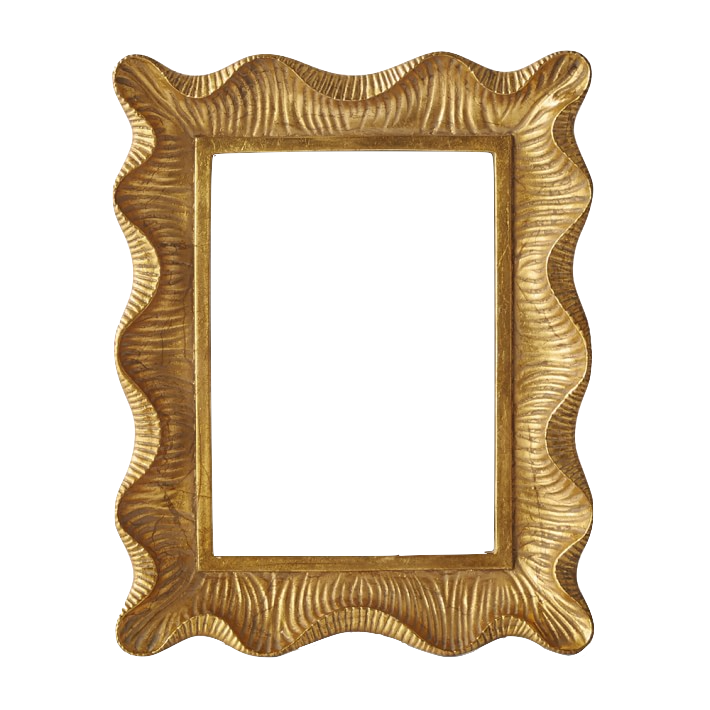
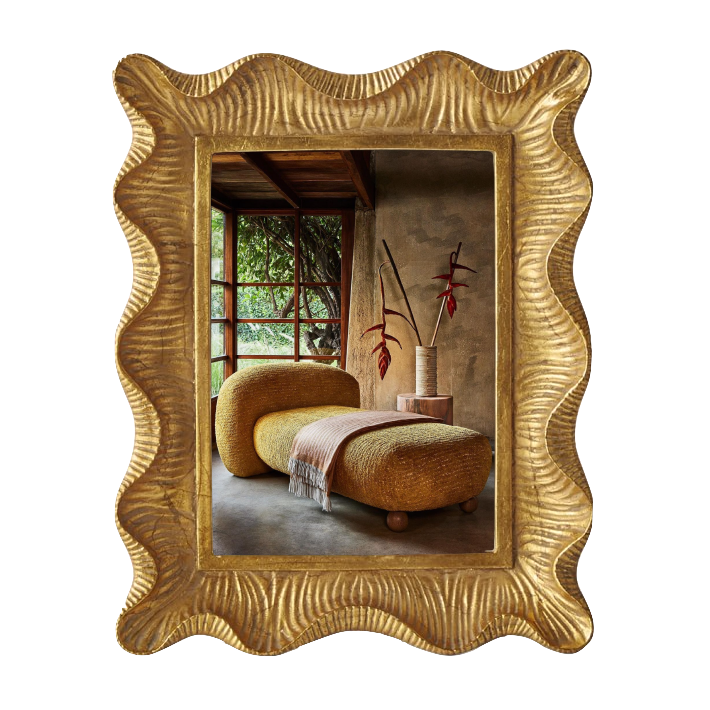
add new images

diff --git a/src/Banner.jsx b/src/Banner.jsx
@@ -10,38 +10,32 @@ export function Banner() {
   <div className="row">
     <div className="col-xl-2 col-l-2 col-md-3 col-sm-4 col-6 item">
       <div className="frame-container">
-        <img src="assets/frame1.png" alt="Frame 1" className="frame" />
-        <img src="assets/chair.png" alt="Image 1" className="inner-image" />
+        <img src="assets/frame1.png" alt="Image 1" className="frame" />
       </div>
     </div>
     <div className="col-xl-2 col-l-2 col-md-3 col-sm-4 col-6 item">
       <div className="frame-container">
-        <img src="assets/frame1.png" alt="Frame 2" className="frame" />
-        <img src="assets/chair.png" alt="Image 2" className="inner-image" />
+        <img src="assets/frame2.png" alt="Image 2" className="frame" />
       </div>
     </div>
     <div className="col-xl-2 col-l-2 col-md-3 col-sm-4 col-6 item">
       <div className="frame-container">
-        <img src="assets/frame1.png" alt="Frame 2" className="frame" />
-        <img src="assets/chair.png" alt="Image 2" className="inner-image" />
+        <img src="assets/frame3.png" alt="Image 2" className="frame" />
       </div>
     </div>
     <div className="col-xl-2 col-l-2 col-md-3 col-sm-4 col-6 item">
       <div className="frame-container">
-        <img src="assets/frame5.png" alt="Frame 2" className="frame" />
-        <img src="assets/chair.png" alt="Image 2" className="inner-image" />
+        <img src="assets/frame4.png" alt="Image 2" className="frame" />
       </div>
     </div>
     <div className="col-xl-2 col-l-2 col-md-3 col-sm-4 col-6 item">
       <div className="frame-container">
-        <img src="assets/frame1.png" alt="Frame 2" className="frame" />
-        <img src="assets/chair.png" alt="Image 2" className="inner-image" />
+        <img src="assets/frame5.png" alt="Image 2" className="frame" />
       </div>
     </div>
     <div className="col-xl-2 col-l-2 col-md-3 col-sm-4 col-6 item">
       <div className="frame-container">
-        <img src="assets/frame1.png" alt="Frame 2" className="frame" />
-        <img src="assets/chair.png" alt="Image 2" className="inner-image" />
+        <img src="assets/frame6.png" alt="Image 2" className="frame" />
       </div>
     </div>
   </div>
@@ -49,38 +43,32 @@ export function Banner() {
   <div className="row">
     <div className="col-xl-2 col-l-2 col-md-3 col-sm-4 col-6 item">
       <div className="frame-container">
-        <img src="assets/frame1.png" alt="Frame 1" className="frame" />
-        <img src="assets/chair.png" alt="Image 1" className="inner-image" />
+        <img src="assets/frame7.png" alt="Image 1" className="frame" />
       </div>
     </div>
     <div className="col-xl-2 col-l-2 col-md-3 col-sm-4 col-6 item">
       <div className="frame-container">
-        <img src="assets/frame5.png" alt="Frame 2" className="frame" />
-        <img src="assets/chair.png" alt="Image 2" className="inner-image" />
+        <img src="assets/frame8.png" alt="Image 2" className="frame" />
       </div>
     </div>
     <div className="col-xl-2 col-l-2 col-md-3 col-sm-4 col-6 item">
       <div className="frame-container">
-        <img src="assets/frame1.png" alt="Frame 2" className="frame" />
-        <img src="assets/chair.png" alt="Image 2" className="inner-image" />
+        <img src="assets/frame9.png" alt="Image 2" className="frame" />
       </div>
     </div>
     <div className="col-xl-2 col-l-2 col-md-3 col-sm-4 col-6 item">
       <div className="frame-container">
-        <img src="assets/frame1.png" alt="Frame 2" className="frame" />
-        <img src="assets/chair.png" alt="Image 2" className="inner-image" />
+        <img src="assets/frame10.png" alt="Image 2" className="frame" />
       </div>
     </div>
     <div className="col-xl-2 col-l-2 col-md-3 col-sm-4 col-6 item">
       <div className="frame-container">
-        <img src="assets/frame5.png" alt="Frame 2" className="frame" />
-        <img src="assets/chair.png" alt="Image 2" className="inner-image" />
+        <img src="assets/frame11.png" alt="Image 2" className="frame" />
       </div>
     </div>
     <div className="col-xl-2 col-l-2 col-md-3 col-sm-4 col-6 item">
       <div className="frame-container">
-        <img src="assets/frame1.png" alt="Frame 2" className="frame" />
-        <img src="assets/chair.png" alt="Image 2" className="inner-image" />
+        <img src="assets/frame12.png" alt="Image 2" className="frame" />
       </div>
     </div>
   </div>
@@ -89,82 +77,70 @@ export function Banner() {
   <div className="row">
     <div className="col-xl-2 col-l-2 col-md-3 col-sm-4 col-6 item">
       <div className="frame-container">
-        <img src="assets/frame5.png" alt="Frame 1" className="frame" />
-        <img src="assets/chair.png" alt="Image 1" className="inner-image" />
+        <img src="assets/frame13.png" alt="Image 1" className="frame" />
       </div>
     </div>
     <div className="col-xl-2 col-l-2 col-md-3 col-sm-4 col-6 item">
       <div className="frame-container">
-        <img src="assets/frame1.png" alt="Frame 2" className="frame" />
-        <img src="assets/chair.png" alt="Image 2" className="inner-image" />
+        <img src="assets/frame14.png" alt="Image 2" className="frame" />
       </div>
     </div>
     <div className="col-xl-2 col-l-2 col-md-3 col-sm-4 col-6 item">
       <div className="frame-container">
-        <img src="assets/frame1.png" alt="Frame 2" className="frame" />
-        <img src="assets/chair.png" alt="Image 2" className="inner-image" />
+        <img src="assets/frame15.png" alt="Image 2" className="frame" />
       </div>
     </div>
     <div className="col-xl-2 col-l-2 col-md-3 col-sm-4 col-6 item">
       <div className="frame-container">
-        <img src="assets/frame1.png" alt="Frame 2" className="frame" />
-        <img src="assets/chair.png" alt="Image 2" className="inner-image" />
+        <img src="assets/frame16.png" alt="Image 2" className="frame" />
       </div>
     </div>
     <div className="col-xl-2 col-l-2 col-md-3 col-sm-4 col-6 item">
       <div className="frame-container">
-        <img src="assets/frame1.png" alt="Frame 2" className="frame" />
-        <img src="assets/chair.png" alt="Image 2" className="inner-image" />
+        <img src="assets/frame17.png" alt="Image 2" className="frame" />
       </div>
     </div>
     <div className="col-xl-2 col-l-2 col-md-3 col-sm-4 col-6 item">
       <div className="frame-container">
-        <img src="assets/frame1.png" alt="Frame 2" className="frame" />
-        <img src="assets/chair.png" alt="Image 2" className="inner-image" />
+        <img src="assets/frame18.png" alt="Image 2" className="frame" />
       </div>
     </div>
   </div>
 
 
 
-  <div className="row">
+  {/* <div className="row">
     <div className="col-xl-2 col-l-2 col-md-3 col-sm-4 col-6 item">
       <div className="frame-container">
-        <img src="assets/frame1.png" alt="Frame 1" className="frame" />
         <img src="assets/chair.png" alt="Image 1" className="inner-image" />
       </div>
     </div>
     <div className="col-xl-2 col-l-2 col-md-3 col-sm-4 col-6 item">
       <div className="frame-container">
-        <img src="assets/frame1.png" alt="Frame 2" className="frame" />
         <img src="assets/chair.png" alt="Image 2" className="inner-image" />
       </div>
     </div>
     <div className="col-xl-2 col-l-2 col-md-3 col-sm-4 col-6 item">
       <div className="frame-container">
-        <img src="assets/frame5.png" alt="Frame 2" className="frame" />
         <img src="assets/chair.png" alt="Image 2" className="inner-image" />
       </div>
     </div>
     <div className="col-xl-2 col-l-2 col-md-3 col-sm-4 col-6 item">
       <div className="frame-container">
-        <img src="assets/frame1.png" alt="Frame 2" className="frame" />
         <img src="assets/chair.png" alt="Image 2" className="inner-image" />
       </div>
     </div>
     <div className="col-xl-2 col-l-2 col-md-3 col-sm-4 col-6 item">
       <div className="frame-container">
-        <img src="assets/frame5.png" alt="Frame 2" className="frame" />
         <img src="assets/chair.png" alt="Image 2" className="inner-image" />
       </div>
     </div>
     <div className="col-xl-2 col-l-2 col-md-3 col-sm-4 col-6 item">
       <div className="frame-container">
-        <img src="assets/frame1.png" alt="Frame 2" className="frame" />
         <img src="assets/chair.png" alt="Image 2" className="inner-image" />
       </div>
     </div>
-  </div>
+  </div> */}
 
 </div>
   )
